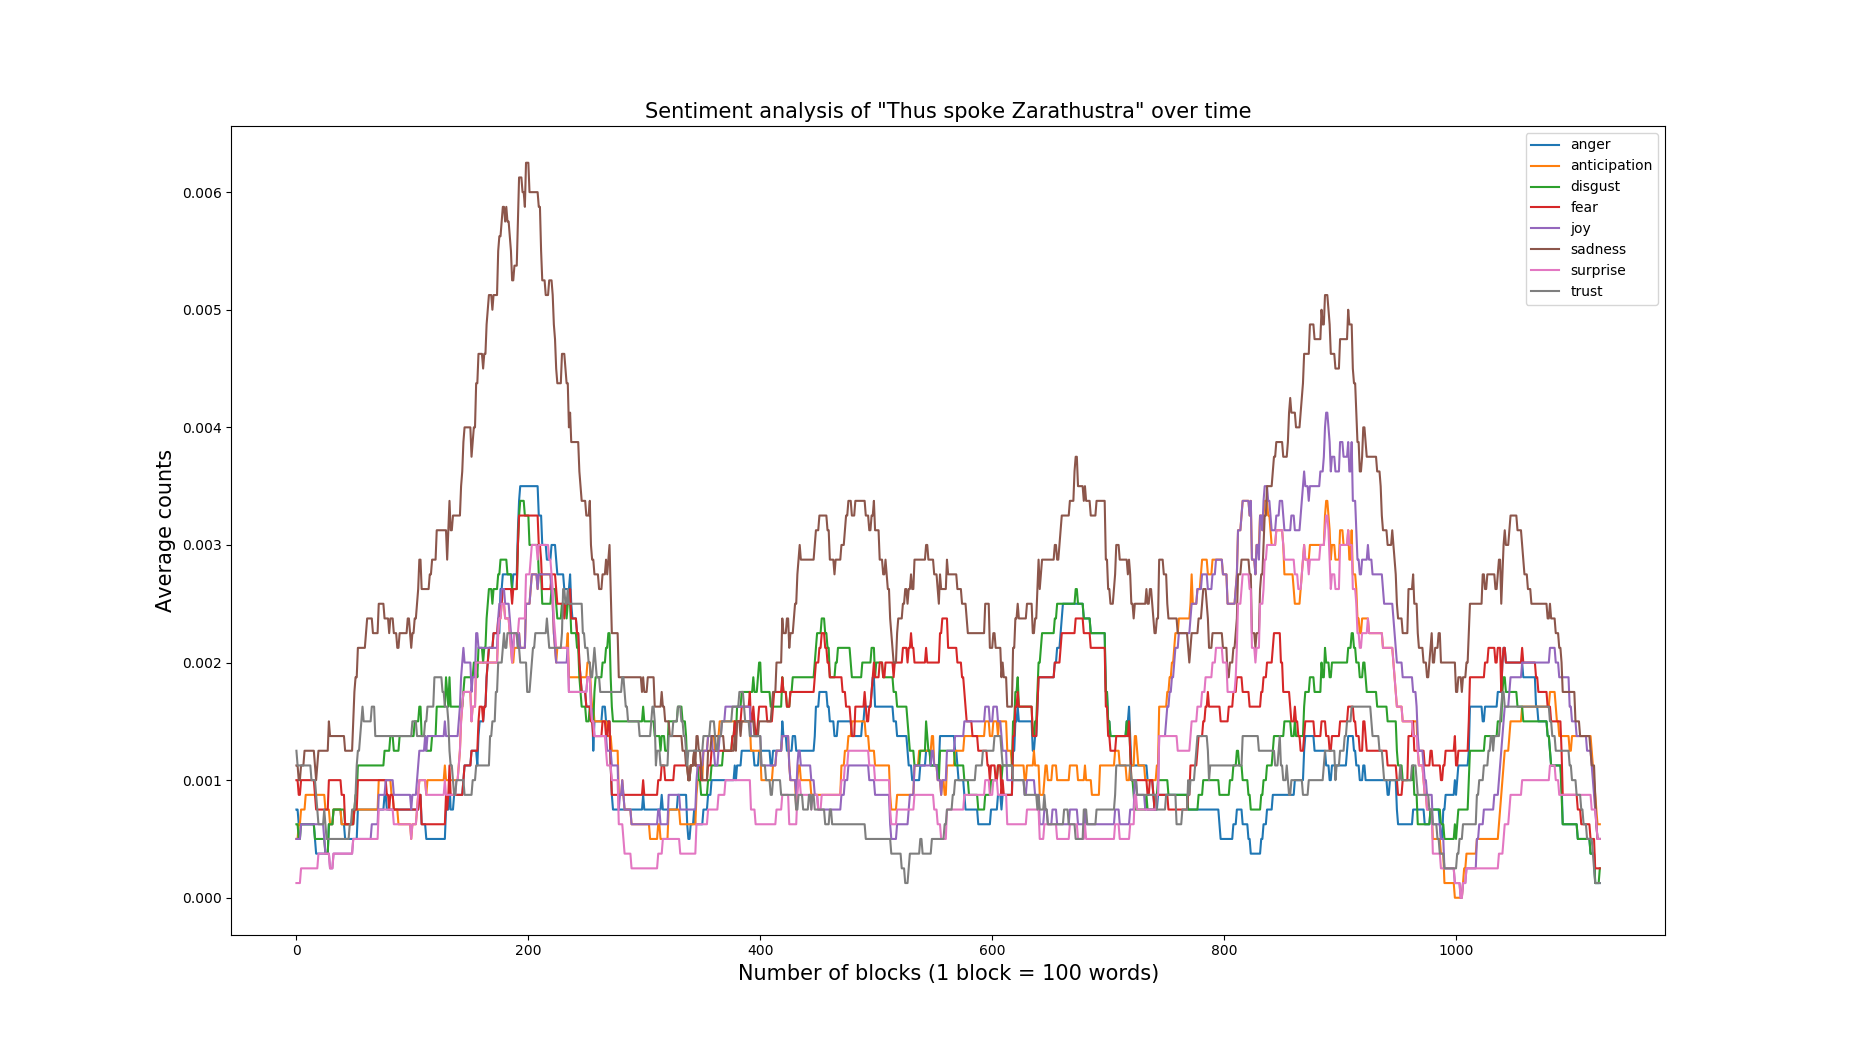
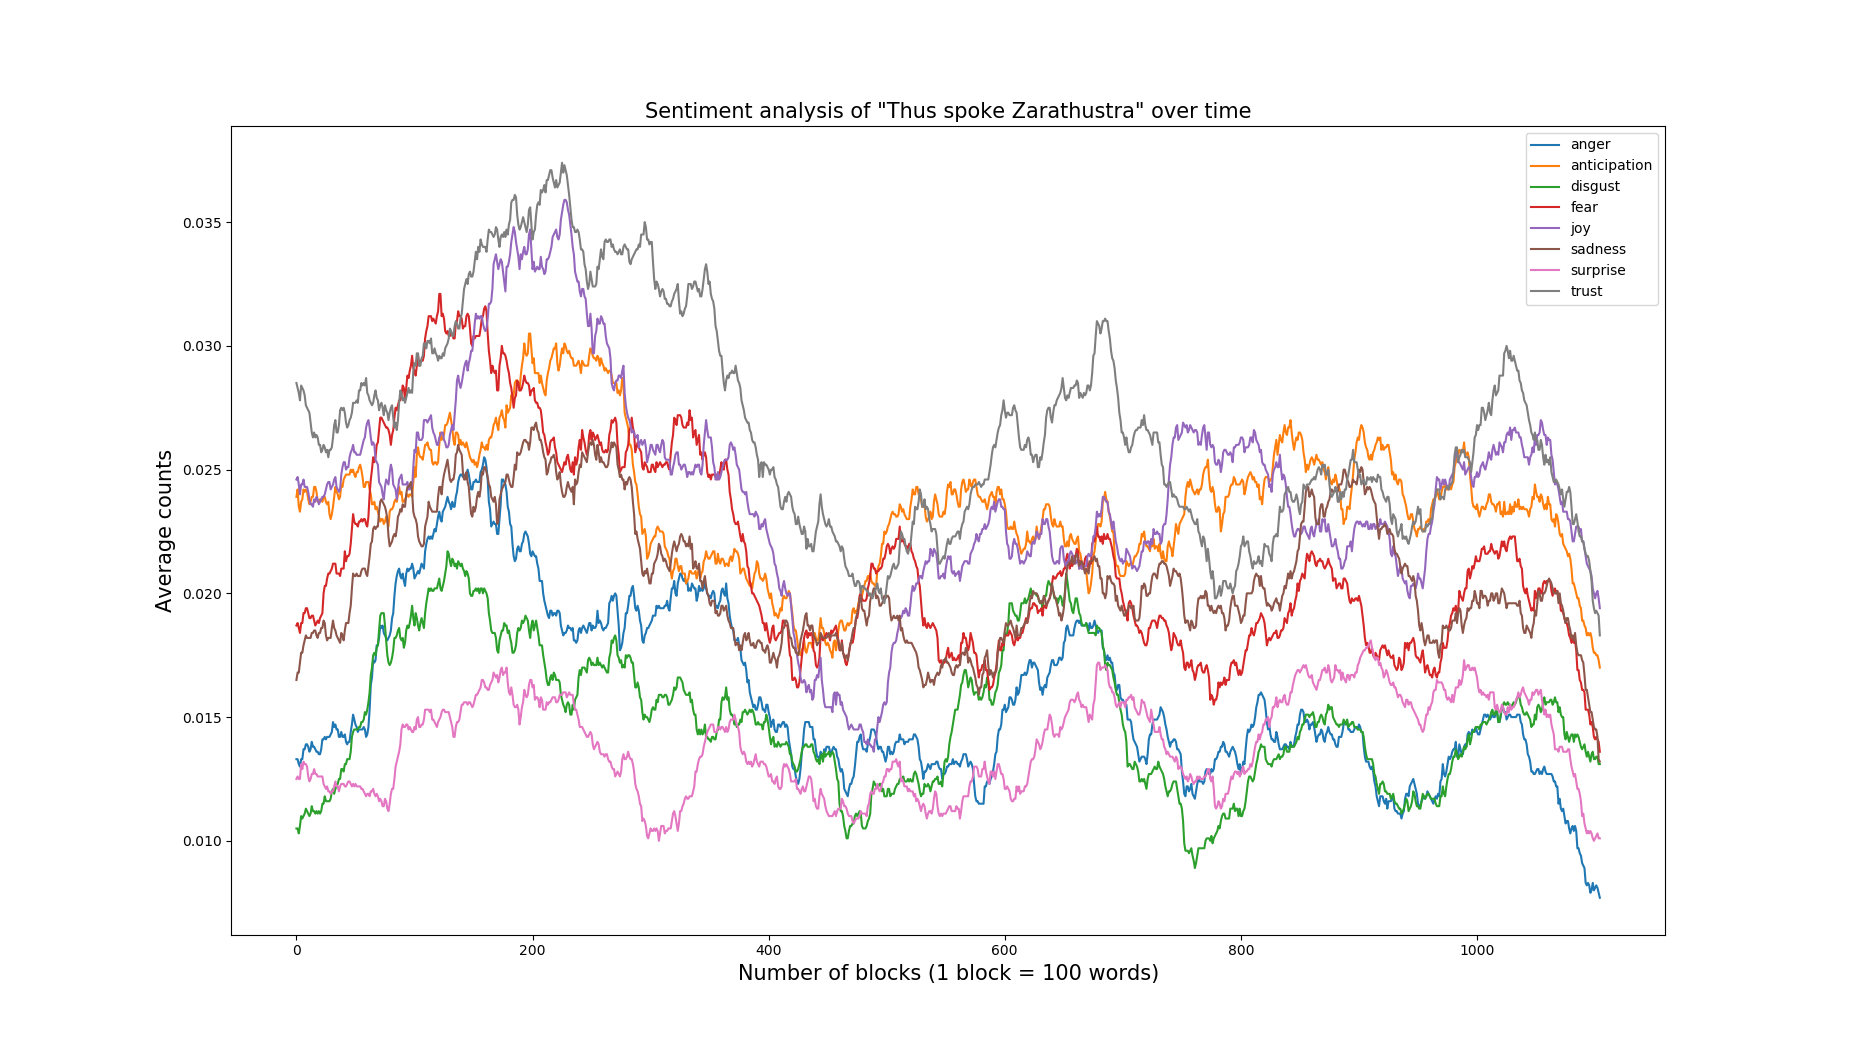
Bug fix: digits as tokens

diff --git a/src/lbsa.py b/src/lbsa.py
@@ -12,7 +12,6 @@ import csv
 
 from nltk.tokenize import word_tokenize
 
-
 try: # Python 3
     from urllib.request import urlretrieve
 except ImportError: # Python 2
@@ -20,86 +19,101 @@ except ImportError: # Python 2
 
 
 home = os.path.expanduser("~")
-download_dir = os.path.join(home, 'lbsa_data')
-if not os.path.isdir(download_dir):
-    os.makedirs(download_dir)
+LBSA_DATA_DIR = os.path.join(home, 'lbsa_data')
+if not os.path.isdir(LBSA_DATA_DIR):
+    os.makedirs(LBSA_DATA_DIR)
 
-nrc_filename = "NRC-Emotion-Lexicon-v0.92-InManyLanguages-web"
-if not os.path.exists(os.path.join(download_dir, "%s.csv" % nrc_filename)):
-    # Download lexicon in XLSX format
-    if not os.path.exists(os.path.join(download_dir, "%s.xlsx" % nrc_filename)):
-        LEXICON_URL = "http://www.saifmohammad.com/WebDocs/%s.xlsx" % nrc_filename
-        urlretrieve(LEXICON_URL, os.path.join(download_dir, "%s.xlsx" % nrc_filename))
 
-    # Convert from XLSX to CSV file
-    wb = xlrd.open_workbook(os.path.join(download_dir, "%s.xlsx" % nrc_filename))
-    sheet = wb.sheet_by_name('NRC-Emotion-Lexicon-v0.92-InMan')
-    with open(os.path.join(download_dir, "%s.csv" % nrc_filename), mode='w', encoding='utf8') as csv_file:
-        writer = csv.writer(csv_file, quoting=csv.QUOTE_ALL)
-        for rownum in range(sheet.nrows):
-            writer.writerow(sheet.row_values(rownum))
+class Lexicon:
+
+    def __init__(self, dataframe, sentiment_names, language='english'):
+        self.dataframe = dataframe
+        self.sentiment_names = sentiment_names
+        self.language = language
+        self.table = dict()
+        self.set_language(self.table, language)
+
+    def set_language(self, table, language):
+        sentiments = np.asarray(self.dataframe[self.sentiment_names])
+        for key, value in zip(self.dataframe[self.language], sentiments):
+            if value.sum() > 0:
+                table[key] = value
     
-    # Remove XLSX file
-    os.remove(os.path.join(download_dir, "%s.xlsx" % nrc_filename))
-
-
-SENTIMENT_NAMES = ["positive", "negative", "anger", "anticipation", "disgust", "fear", "joy", "sadness", "surprise", "trust"]
-
-LEXICON_PATH = os.path.join(__file__, os.path.join(download_dir, '%s.csv' % nrc_filename))
-LEXICON_ALL_LANGUAGES = pd.read_csv(LEXICON_PATH, encoding='utf8')
-LEXICON_ALL_LANGUAGES.rename(columns=lambda x: x.replace('Word', '').split('Translation')[0].rstrip(' ').lower(), inplace=True)
-for column_name in SENTIMENT_NAMES:
-    LEXICON_ALL_LANGUAGES[column_name] = LEXICON_ALL_LANGUAGES[column_name].astype(np.int32)
-
-
-class Analysis:
-    def __init__(self, values, n_words):
-        self.opinion = {
-            'positive': values[0] / n_words,
-            'negative': values[1] / n_words,
-        }
-
-        self.sentiments = {
-            name: values[i] for i, name in zip(range(2, len(SENTIMENT_NAMES)), SENTIMENT_NAMES[2:])
-        }
-        self.values = values
-
-    def __repr__(self):
-        return str({key: value for key, value in zip(SENTIMENT_NAMES, self.values)})
+    def get(self, token):
+        if token.isdigit():
+            return None
+        return self.table.get(token)
     
-    def __str__(self):
-        return self.__repr__()
+    def get_n_sentiments(self):
+        return len(self.sentiment_names)
+    
+    def get_sentiment_names(self):
+        return self.sentiment_names
+    
+    def get_analysis(self, counters):
+        return {
+            name: counter for name, counter in zip(self.sentiment_names, counters)
+        }
+    
+    def __len__(self):
+        return len(self.dataframe)
+
+
+def load_nrc_lexicon():
+    nrc_filename = "NRC-Emotion-Lexicon-v0.92-InManyLanguages-web"
+    if not os.path.exists(os.path.join(LBSA_DATA_DIR, "%s.csv" % nrc_filename)):
+        # Download lexicon in XLSX format
+        if not os.path.exists(os.path.join(LBSA_DATA_DIR, "%s.xlsx" % nrc_filename)):
+            LEXICON_URL = "http://www.saifmohammad.com/WebDocs/%s.xlsx" % nrc_filename
+            urlretrieve(LEXICON_URL, os.path.join(LBSA_DATA_DIR, "%s.xlsx" % nrc_filename))
+
+        # Convert from XLSX to CSV file
+        wb = xlrd.open_workbook(os.path.join(LBSA_DATA_DIR, "%s.xlsx" % nrc_filename))
+        sheet = wb.sheet_by_name('NRC-Emotion-Lexicon-v0.92-InMan')
+        with open(os.path.join(LBSA_DATA_DIR, "%s.csv" % nrc_filename), mode='w', encoding='utf8') as csv_file:
+            writer = csv.writer(csv_file, quoting=csv.QUOTE_ALL)
+            for rownum in range(sheet.nrows):
+                writer.writerow(sheet.row_values(rownum))
+        
+        # Remove XLSX file
+        os.remove(os.path.join(LBSA_DATA_DIR, "%s.xlsx" % nrc_filename))
+
+    sentiment_names = ["positive", "negative", "anger", "anticipation", "disgust", "fear", "joy", "sadness", "surprise", "trust"]
+    lexicon_path = os.path.join(__file__, os.path.join(LBSA_DATA_DIR, '%s.csv' % nrc_filename))
+    nrc_all_languages = pd.read_csv(lexicon_path, encoding='utf8')
+    nrc_all_languages.rename(columns=lambda x: x.replace('Word', '').split('Translation')[0].rstrip(' ').lower(), inplace=True)
+    for column_name in sentiment_names:
+        nrc_all_languages[column_name] = nrc_all_languages[column_name].astype(np.int32)
+    return nrc_all_languages, sentiment_names
 
 
 def create_lexicon(language='english'):
-    sentiments = np.asarray(LEXICON_ALL_LANGUAGES[SENTIMENT_NAMES])
-
-    lexicon = dict()
-    for key, value in zip(LEXICON_ALL_LANGUAGES[language], sentiments):
-        if value.sum() > 0:
-            lexicon[key] = value
+    nrc_all_languages, sentiment_names = load_nrc_lexicon()
+    lexicon = Lexicon(nrc_all_languages, sentiment_names, language=language)
     return lexicon
 
 
 def sentiment_analysis(text, lexicon):
     tokens = word_tokenize(text)
-    counters = np.zeros(len(SENTIMENT_NAMES), dtype=np.int)
+    n_sentiments = lexicon.get_n_sentiments()
+    counters = np.zeros(n_sentiments, dtype=np.int)
     for token in tokens:
         value = lexicon.get(token.lower())
         if value is not None:
             counters += value
-    return Analysis(counters, len(tokens))
+    return lexicon.get_analysis(counters)
 
 
 def time_analysis(text, lexicon):
     tokens = word_tokenize(text)
-    mask = np.zeros((len(tokens), len(SENTIMENT_NAMES)), dtype=np.int)
+    n_sentiments = lexicon.get_n_sentiments()
+    sentiment_names = lexicon.get_sentiment_names()
+    mask = np.zeros((len(tokens), n_sentiments), dtype=np.int)
     for token_id, token in enumerate(tokens):
         value = lexicon.get(token.lower())
         if value is not None:
             mask[token_id, :] += value
-        print('%i/%i' % (token_id+1, len(tokens)))
     features = {
-        key: value for key, value in zip(SENTIMENT_NAMES, mask.T)
+        key: value for key, value in zip(sentiment_names, mask.T)
     }
     return features

diff --git a/src/examples/example.py b/src/examples/example.py
@@ -14,7 +14,7 @@ def moving_average(sequence, n=1000):
 
 
 # https://archive.org/stream/thusspokezarathu00nietuoft/thusspokezarathu00nietuoft_djvu.txt
-with open('../data/thus_spoke_zarathustra.txt', 'r') as f:
+with open('../../data/thus_spoke_zarathustra.txt', 'r') as f:
     text = f.read()
     lexicon = lbsa.create_lexicon(language='english')
     features = lbsa.time_analysis(text, lexicon)
@@ -27,16 +27,19 @@ with open('../data/thus_spoke_zarathustra.txt', 'r') as f:
     new_length = len(polarity) - (len(polarity) % block_size)
     polarity = np.mean(polarity[:new_length].reshape(-1, block_size), axis=1)
     polarity = moving_average(polarity, n=50)
-
     plt.plot(polarity)
-    plt.show()
 
+    fig = plt.gcf()
+    fig.set_size_inches(18.5, 10.5)
+    fig.savefig('polarity.png', dpi=100)
 
-    for feature_name in lbsa.SENTIMENT_NAMES[2:]:
+    n_sentiments = lexicon.get_n_sentiments()
+    sentiment_names = lexicon.get_sentiment_names()
+    for feature_name in sentiment_names[2:]:
         feature = features[feature_name]
         new_length = len(feature) - (len(feature) % block_size)
         feature = np.mean(feature[:new_length].reshape(-1, block_size), axis=1)
-        feature = moving_average(feature, n=80)
+        feature = moving_average(feature, n=100)
 
         plt.plot(feature, label=feature_name)
 
